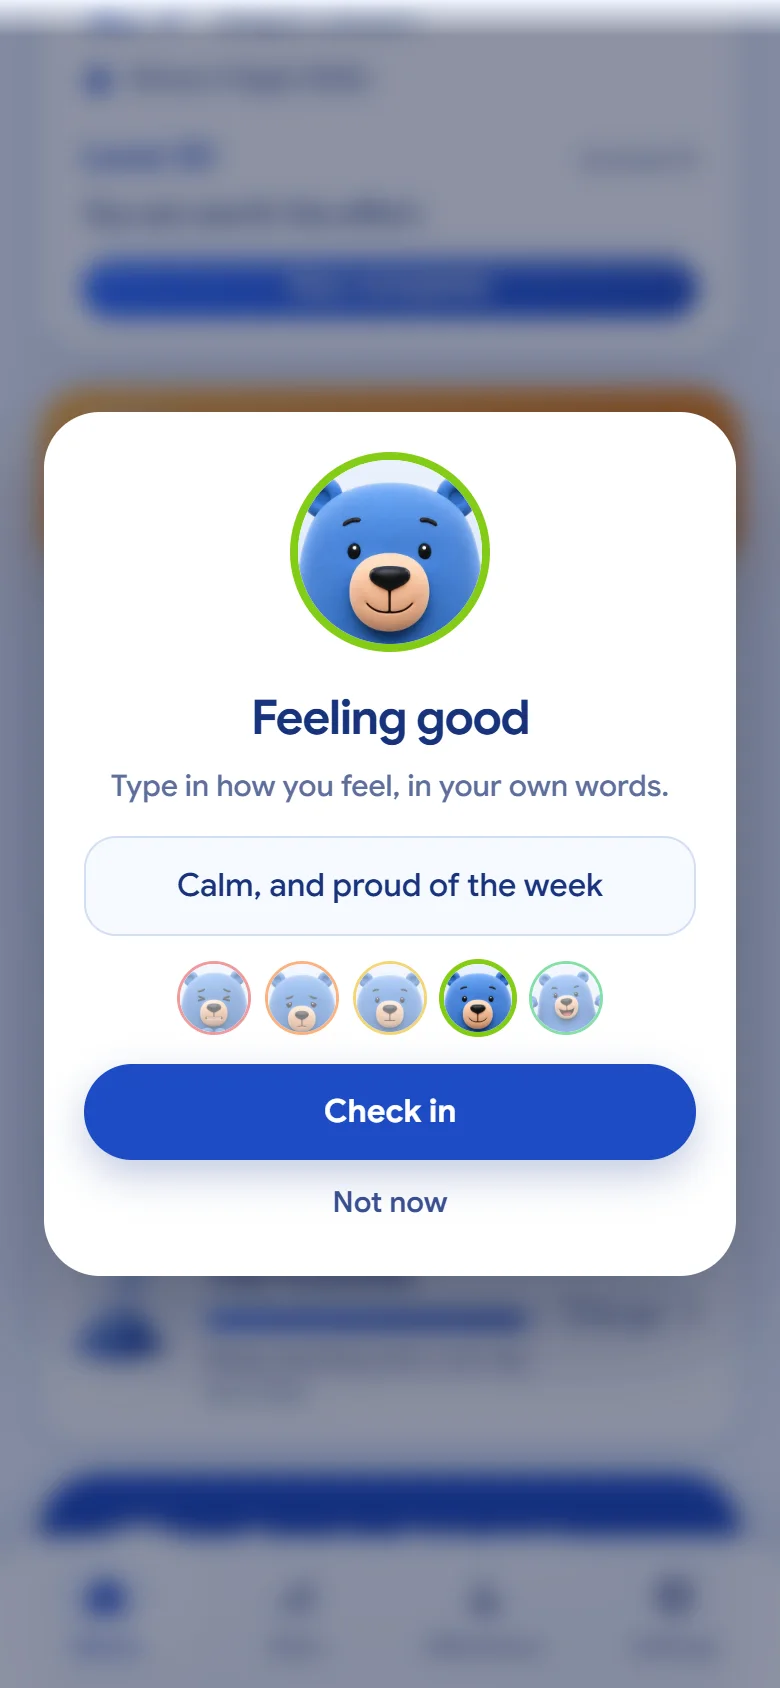
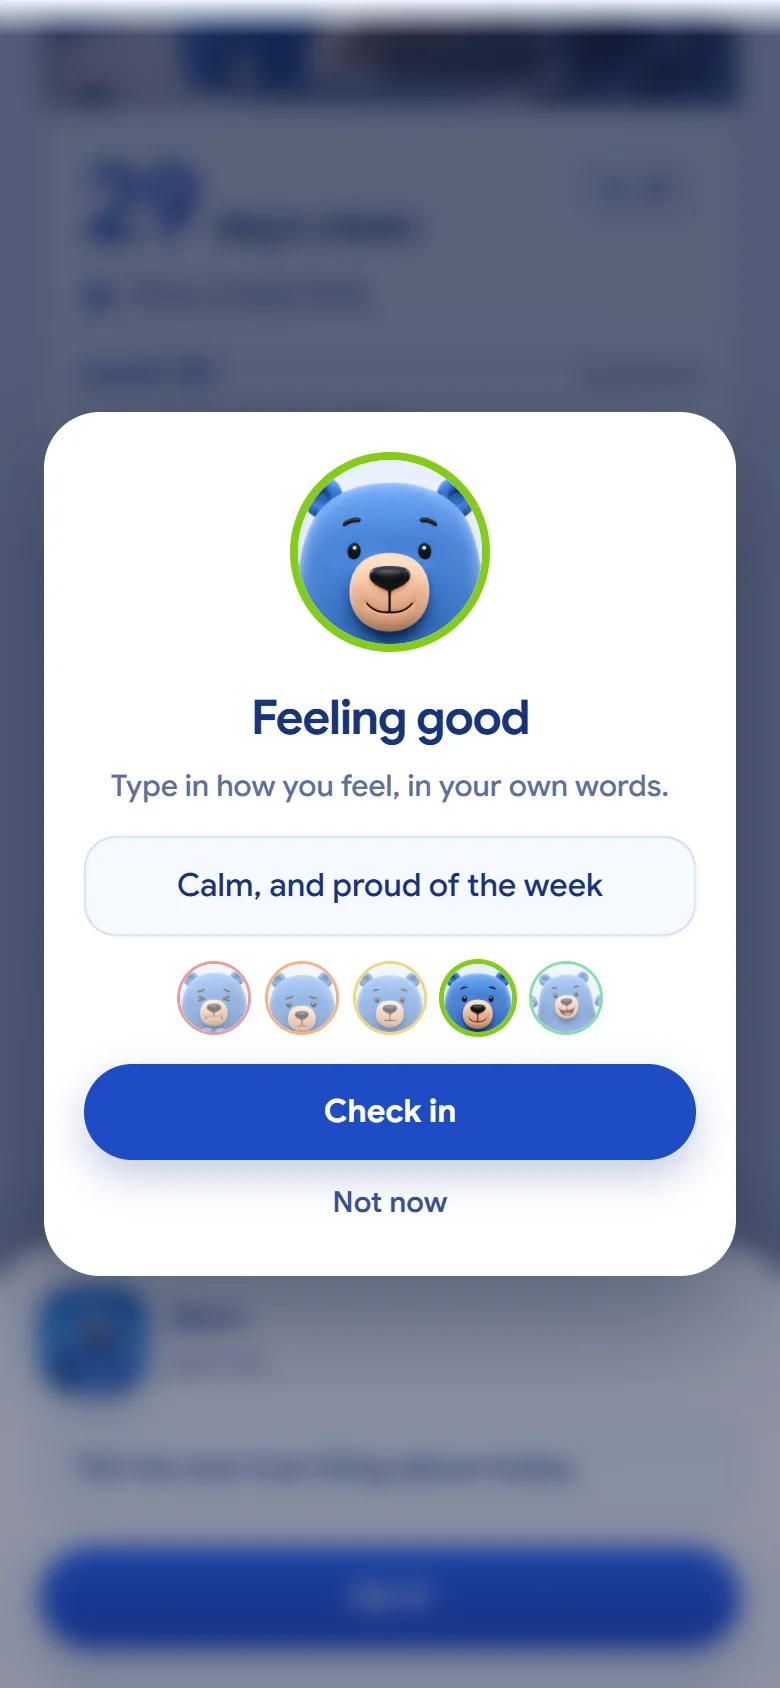
Homepage graphics: blue hero with three phones, Bern leaning over the main phone, tour strip, bear stickers on each feature
Calmer screenshots (no orange claim card), new captures of home, craving button, ride-it-out, journal and check-in, and bust-pose Bern stickers hugging the phones.

Claude-Session: https://claude.ai/code/session_01TSyjbqqz4DU9rukXnYHCkx

diff --git a/index.html b/index.html
@@ -112,11 +112,18 @@
   .store-google { height: 82px; margin: -13px -10px; }
   .hero-note { margin-top: 20px; font-size: 15px; opacity: .92; display: flex; align-items: center; gap: 8px; }
   .hero-art { position: relative; height: 760px; }
-  .hero-device { position: absolute; left: 50%; top: 150px; transform: translateX(-50%) rotate(6deg); }
-  .hero-mascot { position: absolute; z-index: 3; width: 300px; left: 50%; top: -22px; transform: translateX(-50%) rotate(6deg); filter: drop-shadow(0 16px 24px rgba(11, 31, 107, 0.35)); }
+  /* three phones: the main one upright, two tilted behind it; Bern leans over the top of the main phone */
+  .hero-phones { position: absolute; left: 50%; top: 0; width: 600px; height: 740px; margin-left: -300px; }
+  .hp { position: absolute; }
+  .hp-main { left: 150px; top: 150px; z-index: 3; width: 300px; }
+  .hp-left { left: -6px; top: 250px; z-index: 1; width: 250px; transform: rotate(-9deg); transform-origin: 80% 100%; }
+  .hp-right { left: 356px; top: 230px; z-index: 2; width: 250px; transform: rotate(9deg); transform-origin: 20% 100%; }
+  .hp .phone { width: 100%; }
+  /* Bern sits in front of the top edge, paws over the frame */
+  .hero-bear { position: absolute; z-index: 5; width: 300px; left: 150px; top: 38px; filter: drop-shadow(0 14px 18px rgba(11, 31, 107, 0.35)); pointer-events: none; }
   .scribble { position: absolute; font-size: 24px; line-height: 1.15; color: rgba(255,255,255,.94); transform: rotate(-8deg); }
-  .scribble-1 { right: -72px; top: 40px; text-align: center; }
-  .scribble-2 { right: -84px; bottom: 170px; transform: rotate(-12deg); }
+  .scribble-1 { right: -40px; top: 60px; text-align: center; z-index: 6; }
+  .scribble-2 { left: -30px; bottom: 120px; transform: rotate(-12deg); z-index: 6; }
   .scribble svg { display: block; margin: 8px auto 0; }
   .spark { position: absolute; width: 14px; height: 48px; border-radius: 8px; background: #FFD66B; }
   .spark-1 { left: 6%; top: 30%; transform: rotate(-30deg); }
@@ -128,6 +135,15 @@
   .phone-screen { width: 100%; height: 100%; border-radius: 38px; overflow: hidden; background: var(--bg); }
   .phone-screen img { width: 100%; height: 100%; object-fit: cover; object-position: top; }
   .phone.sm { width: 260px; }
+
+  /* tour strip */
+  .tour { background: linear-gradient(180deg, #DDE8FF 0%, var(--bg) 100%); border-radius: 48px; margin: 0 var(--gutter); padding: 72px 0 56px; }
+  .tour-row { display: flex; justify-content: center; align-items: flex-start; gap: 28px; flex-wrap: nowrap; }
+  .tour-item { flex: 0 1 250px; text-align: center; }
+  .tour-item:nth-child(even) { margin-top: 48px; }
+  .tour-item .phone { width: 100%; max-width: 250px; margin: 0 auto; }
+  .tour-item h3 { font-size: 20px; margin: 20px 0 4px; }
+  .tour-item p { color: var(--muted); font-size: 15.5px; }
 
   /* sections */
   section { padding: 96px 0; }
@@ -151,6 +167,8 @@
   .feature-art .blob { position: absolute; inset: 8% 10%; border-radius: 48% 52% 44% 56% / 50% 44% 56% 50%; }
   .feature-art .phone { position: relative; transform: rotate(-3deg); }
   .feature.flip .feature-art .phone { transform: rotate(3deg); }
+  .sticker { position: absolute; z-index: 4; width: 230px; left: calc(50% - 250px); bottom: 36px; filter: drop-shadow(0 14px 20px rgba(23, 51, 123, 0.28)); pointer-events: none; }
+  .feature.flip .sticker { left: auto; right: calc(50% - 250px); }
   .feature-copy .kicker { color: var(--brand-2); }
   .feature-copy h3 { font-size: clamp(30px, 3.4vw, 42px); line-height: 1.1; font-weight: 800; margin: 12px 0 16px; }
   .feature-copy p { color: var(--muted); font-size: 18px; }
@@ -230,7 +248,9 @@
     .nav-bar .btn { margin-left: auto; }
     .hero-grid, .feature, .band-grid { grid-template-columns: minmax(0, 1fr); }
     .hero { padding-bottom: 200px; }
-    .hero-art { height: 640px; max-width: 520px; width: 100%; margin: 0 auto; }
+    .hero-art { height: 640px; max-width: 600px; width: 100%; margin: 0 auto; }
+    .tour-row { flex-wrap: wrap; }
+    .tour-item:nth-child(even) { margin-top: 0; }
     .prices { grid-template-columns: minmax(0, 400px); }
     .feature.flip .feature-art { order: 0; }
     .pillar-grid, .steps, .pro-grid { grid-template-columns: 1fr; }
@@ -245,14 +265,17 @@
     .nav-logo span { font-size: 21px; }
     .hero { padding-top: 128px; }
     .hero-sub { font-size: 18px; }
-    .hero-art { height: 690px; }
-    .phone { width: 250px; border-radius: 40px; }
+    .hero-art { height: 480px; }
+    .hero-phones { transform: scale(.6); transform-origin: top center; }
+    .phone { border-radius: 40px; }
     .phone-screen { border-radius: 31px; }
-    .hero-mascot { width: 240px; top: -4px; }
-    .hero-device { top: 130px; }
     .scribble { font-size: 26px; }
-    .scribble-1 { right: -4px; top: 20px; }
+    .scribble-1 { right: -2px; top: 6px; font-size: 22px; }
     .scribble-2 { display: none; }
+    .tour { border-radius: 32px; padding-top: 56px; }
+    .tour-item { flex-basis: 220px; }
+    .sticker { width: 150px; left: calc(50% - 170px); bottom: 20px; }
+    .feature.flip .sticker { right: calc(50% - 170px); }
     .feature-art { min-height: 600px; }
     .band-phones .phone:nth-child(2) { display: none; }
     .cta { border-radius: 28px; }
@@ -300,12 +323,11 @@
       <div class="hero-art">
         <span class="spark spark-1" aria-hidden="true"></span><span class="spark spark-2" aria-hidden="true"></span>
         <div class="scribble scribble-1 hand">One day<br>at a time<br>♡</div>
-        <div class="scribble scribble-2 hand">hold it,<br>ride it out
-          <svg width="60" height="40" viewBox="0 0 60 40" fill="none" aria-hidden="true"><path d="M4 8c10 20 28 26 48 16m0 0-12-2m12 2-4-12" stroke="#fff" stroke-width="3" stroke-linecap="round" stroke-linejoin="round"/></svg>
-        </div>
-        <img class="hero-mascot" src="assets/mascots/peek.webp" alt="Bern the blue bear peeking over the phone" width="300" height="135">
-        <div class="hero-device">
-          <div class="phone"><div class="phone-screen"><img src="assets/app/home.webp" alt="The Sobermark home screen: 29 days clean, level 30, and a milestone waiting" width="780" height="1688"></div></div>
+        <div class="hero-phones">
+          <div class="hp hp-left"><div class="phone"><div class="phone-screen"><img src="assets/app/milestones.webp" alt="Achievements: The First Hill, Muddy Paws, The Stream Crossing" width="780" height="1688"></div></div></div>
+          <div class="hp hp-right"><div class="phone"><div class="phone-screen"><img src="assets/app/stats.webp" alt="Your proof: 228 pounds saved, 91 drinks skipped, 38 hours reclaimed" width="780" height="1688"></div></div></div>
+          <div class="hp hp-main"><div class="phone"><div class="phone-screen"><img src="assets/app/home.webp" alt="The Sobermark home screen: 29 days clean and level 30" width="780" height="1688"></div></div></div>
+          <img class="hero-bear" src="assets/mascots/peek.webp" alt="Bern the blue bear leaning over the top of the phone" width="300" height="135">
         </div>
       </div>
     </div>
@@ -317,6 +339,23 @@
         <div class="pillar reveal"><span class="pillar-icon tint-blue"><img src="assets/icons/shield-check.webp" alt="" width="44" height="44"></span><div><h3>Private by design</h3><p>No account, no feed, no public profile. What you write stays on your phone.</p></div></div>
         <div class="pillar reveal"><span class="pillar-icon tint-violet"><img src="assets/icons/craving-tap.webp" alt="" width="44" height="44"></span><div><h3>A craving button that works</h3><p>Press and hold for seven seconds. The pause itself breaks the urge.</p></div></div>
         <div class="pillar reveal"><span class="pillar-icon tint-green"><img src="assets/icons/piggy-bank.webp" alt="" width="44" height="44"></span><div><h3>Proof it adds up</h3><p>Money saved, hours back and badges earned, counted from your exact quit time.</p></div></div>
+      </div>
+    </div>
+  </section>
+
+  <section id="tour" style="padding:96px 0 0">
+    <div class="tour">
+      <div class="wrap">
+        <div class="sec-head reveal" style="margin-bottom:40px">
+          <div class="kicker">See it in action</div>
+          <h2>One app. Four things that matter.</h2>
+        </div>
+        <div class="tour-row">
+          <div class="tour-item reveal"><div class="phone"><div class="phone-screen"><img src="assets/app/home.webp" alt="Home: days clean and level" width="780" height="1688" loading="lazy"></div></div><h3>Count every day</h3><p>From your exact quit time, forward.</p></div>
+          <div class="tour-item reveal"><div class="phone"><div class="phone-screen"><img src="assets/app/home-craving.webp" alt="Home: the craving button, hold for seven seconds" width="780" height="1688" loading="lazy"></div></div><h3>Hold when it's hard</h3><p>Seven seconds is enough to break the urge.</p></div>
+          <div class="tour-item reveal"><div class="phone"><div class="phone-screen"><img src="assets/app/checkin.webp" alt="Check-in: type in how you feel" width="780" height="1688" loading="lazy"></div></div><h3>Check in, your way</h3><p>One face, a few honest words.</p></div>
+          <div class="tour-item reveal"><div class="phone"><div class="phone-screen"><img src="assets/app/journal.webp" alt="Journal: one honest line a day" width="780" height="1688" loading="lazy"></div></div><h3>Read your comeback</h3><p>One line a day becomes your story.</p></div>
+        </div>
       </div>
     </div>
   </section>
@@ -343,6 +382,7 @@
         <div class="feature-art">
           <div class="blob" style="background:#CFE0FF"></div>
           <div class="phone"><div class="phone-screen"><img src="assets/app/craving.webp" alt="The craving screen: this urge is just noise, you just kept £2.50" width="780" height="1688" loading="lazy"></div></div>
+          <img class="sticker" src="assets/mascots/bern-cheer.webp" alt="" width="230" height="230" loading="lazy">
         </div>
       </div>
 
@@ -360,6 +400,7 @@
         <div class="feature-art">
           <div class="blob" style="background:#DDE8FF"></div>
           <div class="phone"><div class="phone-screen"><img src="assets/app/checkin.webp" alt="The check-in window: Feeling good, type in how you feel" width="780" height="1688" loading="lazy"></div></div>
+          <img class="sticker" src="assets/mascots/bern-journal.webp" alt="" width="230" height="230" loading="lazy">
         </div>
       </div>
 
@@ -377,6 +418,7 @@
         <div class="feature-art">
           <div class="blob" style="background:#E3EBFF"></div>
           <div class="phone"><div class="phone-screen"><img src="assets/app/stats.webp" alt="Your proof: £228 saved, 91 drinks skipped, 38 hours reclaimed" width="780" height="1688" loading="lazy"></div></div>
+          <img class="sticker" src="assets/mascots/bern-savings.webp" alt="" width="230" height="230" loading="lazy">
         </div>
       </div>
 
@@ -394,6 +436,7 @@
         <div class="feature-art">
           <div class="blob" style="background:#CFE0FF"></div>
           <div class="phone"><div class="phone-screen"><img src="assets/app/milestones.webp" alt="Achievements: The First Hill, Muddy Paws, The Stream Crossing" width="780" height="1688" loading="lazy"></div></div>
+          <img class="sticker" src="assets/mascots/bern-journey.webp" alt="" width="230" height="230" loading="lazy">
         </div>
       </div>
     </div>
